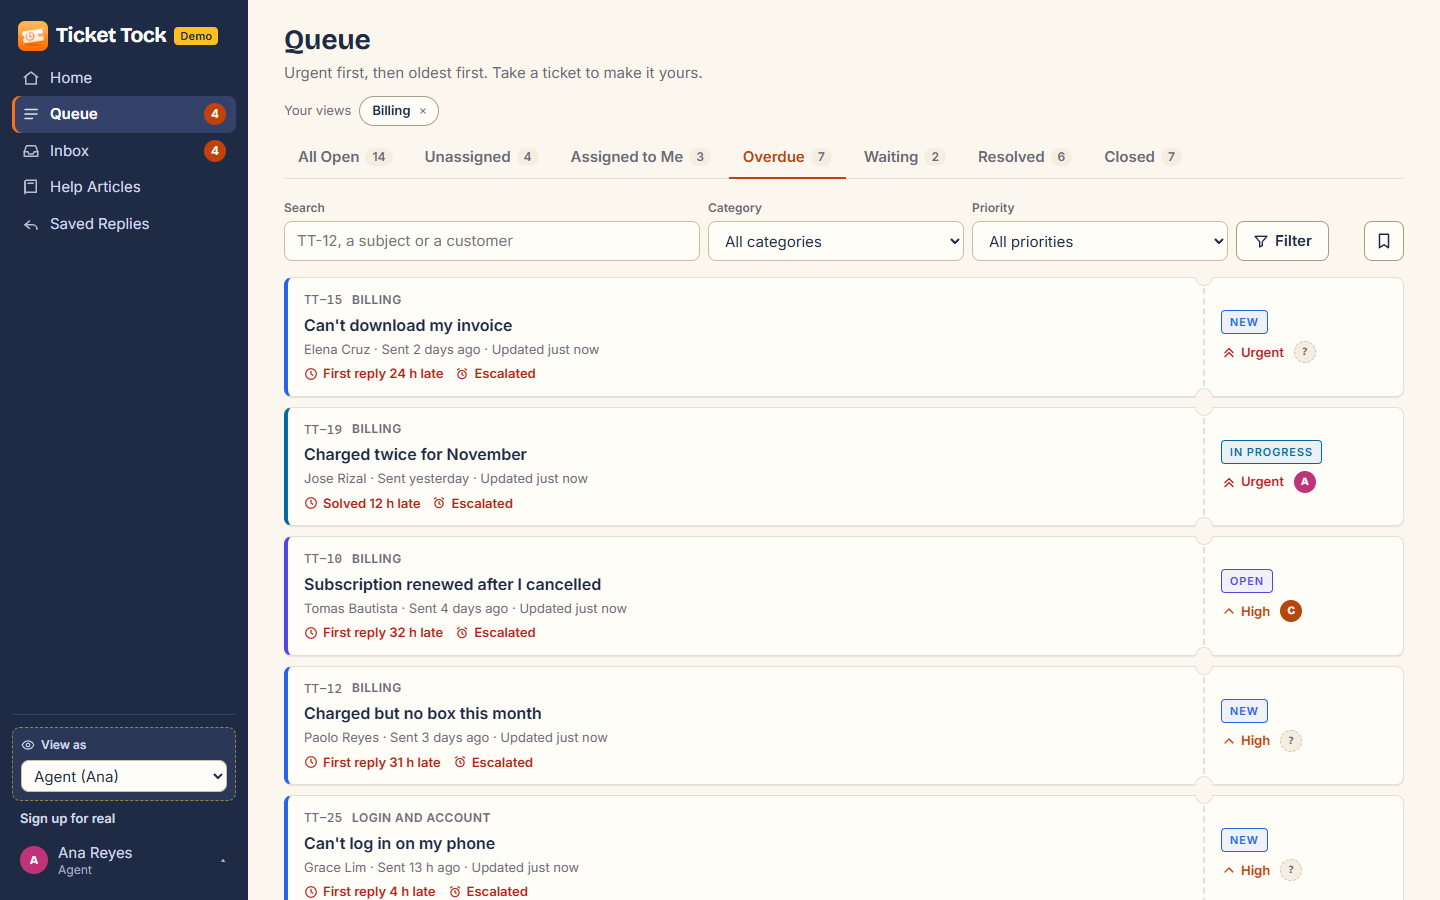
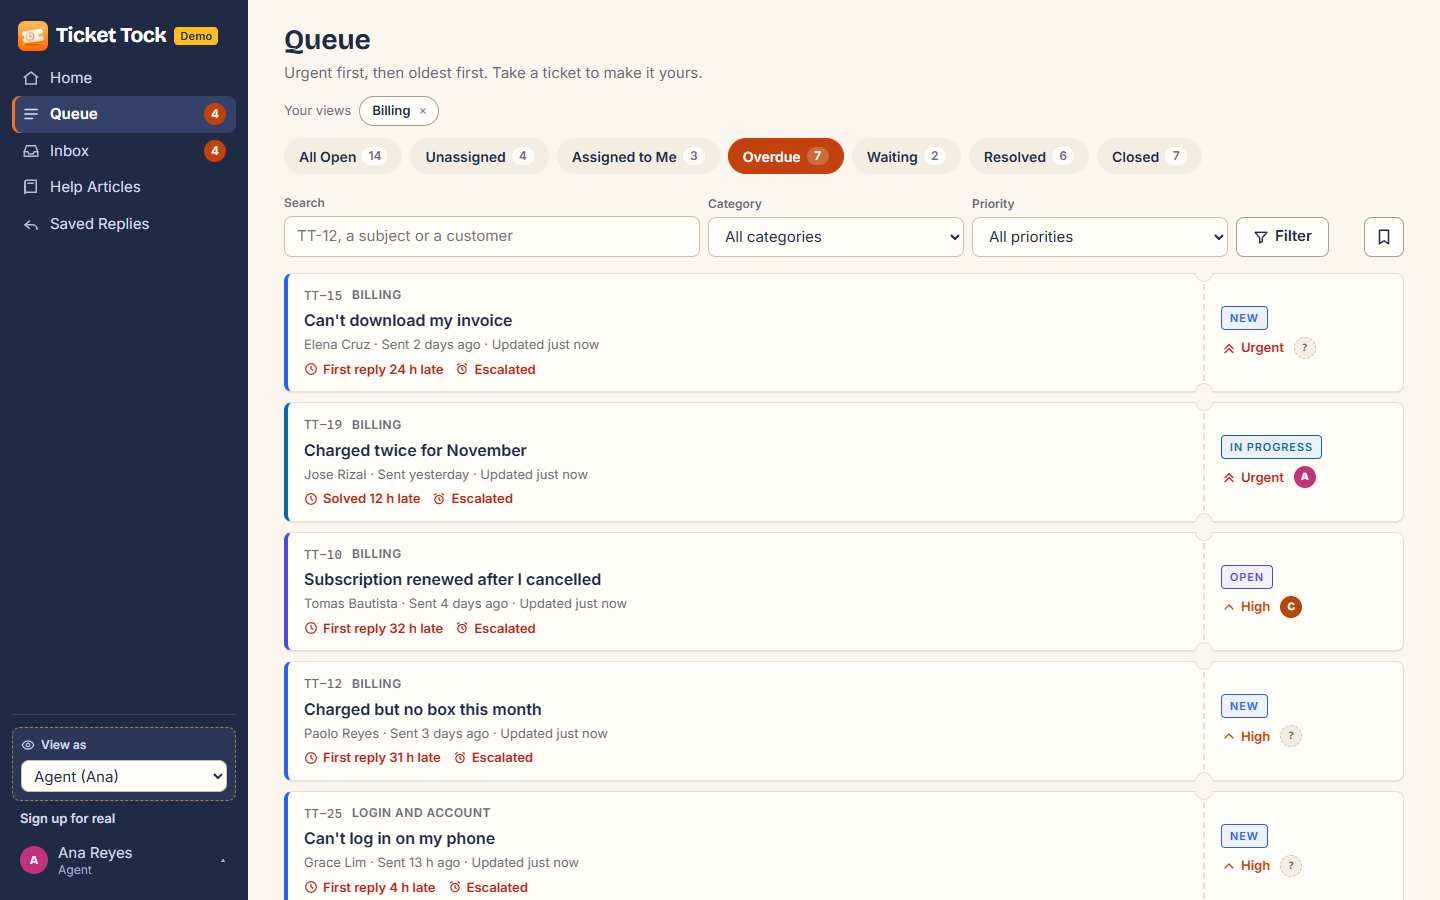
Queue tabs are pills that wrap, no sideways scrolling
The Queue tabs (and the Inbox's All / Unread) are now filled pills. On a phone
they wrap onto more rows, so every tab shows without scrolling left and right.
The current tab is solid orange; saved views stay outlined chips. Pictures retaken.

diff --git a/tickettock/static/style.css b/tickettock/static/style.css
@@ -289,20 +289,21 @@ html:not(.js) .sidebar-menu { display: block; }
 .section-head { display: flex; align-items: baseline; justify-content: space-between; gap: 1rem; margin-bottom: 0.75rem; flex-wrap: wrap; }
 .back-link { display: inline-flex; align-items: center; gap: 0.25rem; font-size: 0.875rem; margin-bottom: 0.5rem; }
 
-/* The line under the tabs is drawn inside the row (an inset shadow), so the current tab's
-   underline can cover it without hanging out of the row: no stray up/down scroll arrows. */
-.tabs {
-  display: flex; gap: 0.25rem; overflow-x: auto; overflow-y: hidden; box-shadow: inset 0 -1px 0 var(--border);
-  margin: -0.25rem 0 1.25rem;
-}
+/* Tabs (Queue, Inbox) are pills that wrap onto a second line on a phone, so every tab
+   shows without scrolling sideways. Filled pills, so they don't look like the outlined saved views. */
+.tabs { display: flex; flex-wrap: wrap; gap: 0.5rem; margin: -0.25rem 0 1.25rem; }
 .tabs a {
-  display: inline-flex; align-items: center; gap: 0.375rem;
-  padding: 0.5rem 0.875rem; color: var(--muted); font-weight: 600; white-space: nowrap;
-  border-bottom: 2px solid transparent; text-decoration: none;
+  display: inline-flex; align-items: center; gap: 0.375rem; min-height: 2.25rem; padding: 0.25rem 0.875rem;
+  border-radius: 999px; background: var(--surface-2); color: var(--text); font-size: 0.875rem; font-weight: 600;
+  white-space: nowrap; text-decoration: none; border: 1px solid transparent;
 }
-.tabs a:hover { color: var(--text); }
-.tabs a[aria-current="page"] { color: var(--accent-text); border-bottom-color: var(--accent); }
-.tabs .tab-count { font-size: 0.75rem; font-weight: 600; color: var(--muted); background: var(--surface-2); border-radius: 999px; padding: 0 0.4375rem; }
+.tabs a:hover { border-color: var(--control-border); }
+.tabs a[aria-current="page"] { background: var(--accent); color: var(--on-accent); border-color: var(--accent); }
+.tabs .tab-count {
+  min-width: 1.375rem; padding: 0 0.375rem; border-radius: 999px; text-align: center;
+  font-size: 0.75rem; font-weight: 700; background: var(--surface); color: var(--muted);
+}
+.tabs a[aria-current="page"] .tab-count { background: color-mix(in srgb, var(--on-accent) 22%, transparent); color: inherit; }
 
 /* ---------- Buttons ---------- */
 

diff --git a/tests/test_tickets.py b/tests/test_tickets.py
@@ -1,5 +1,6 @@
 """Ticket pages: sending, seeing, replying, assigning, and moving through the workflow."""
 import re
+from pathlib import Path
 
 import pytest
 from sqlalchemy import select
@@ -332,3 +333,10 @@ def test_queue_tabs_follow_the_workflow_and_open_on_all_open(app, team):
                                            "Resolved", "Closed")]
     assert order == sorted(order)
     assert re.search(r'aria-current="page">\s*All Open', text)  # the tab it opens on
+
+
+def test_queue_tabs_are_pills_that_wrap_instead_of_scrolling():
+    css = (Path(__file__).parent.parent / "tickettock" / "static" / "style.css").read_text(encoding="utf-8")
+    rule = re.search(r"^\.tabs \{([^}]*)\}", css, re.M).group(1)
+    assert "flex-wrap: wrap" in rule and "overflow" not in rule  # every tab shows on a phone
+    assert re.search(r"^\.tabs a \{[^}]*border-radius: 999px", css, re.M)
